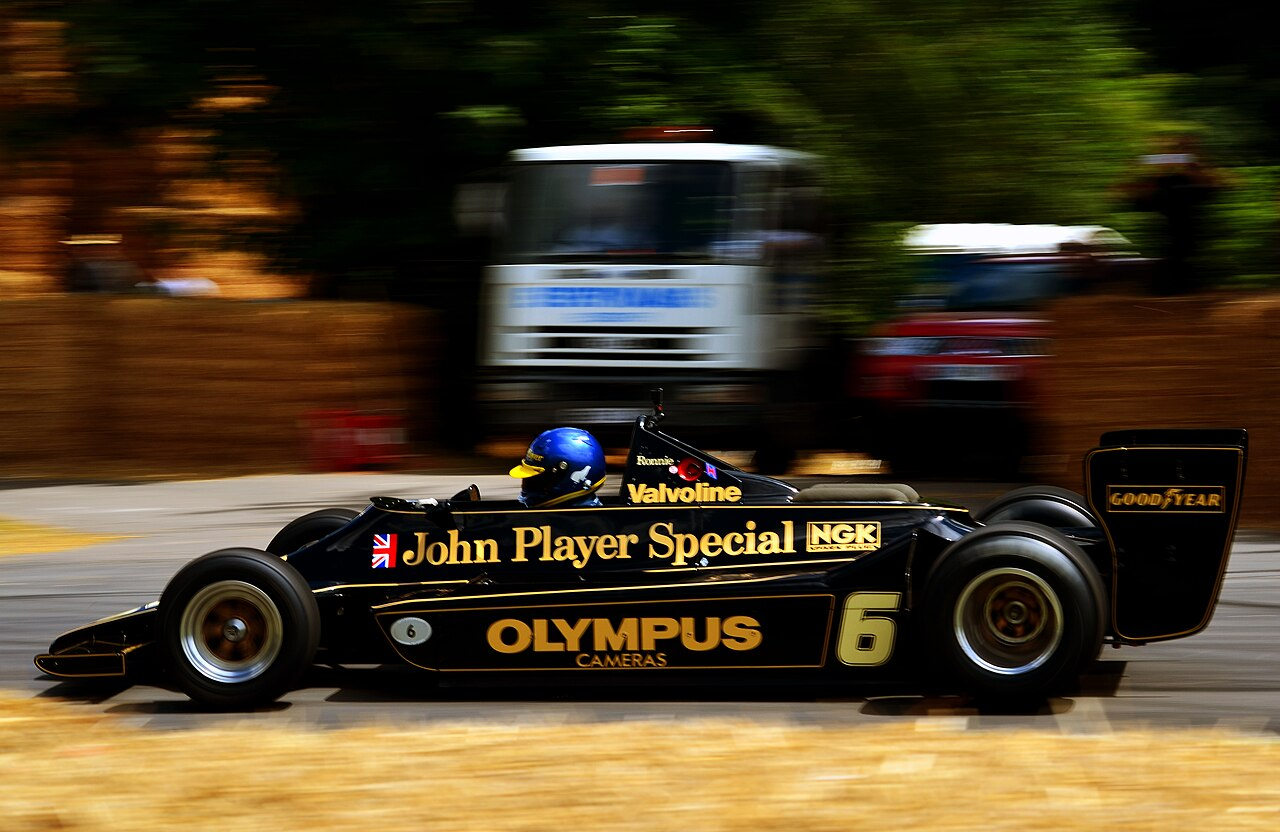
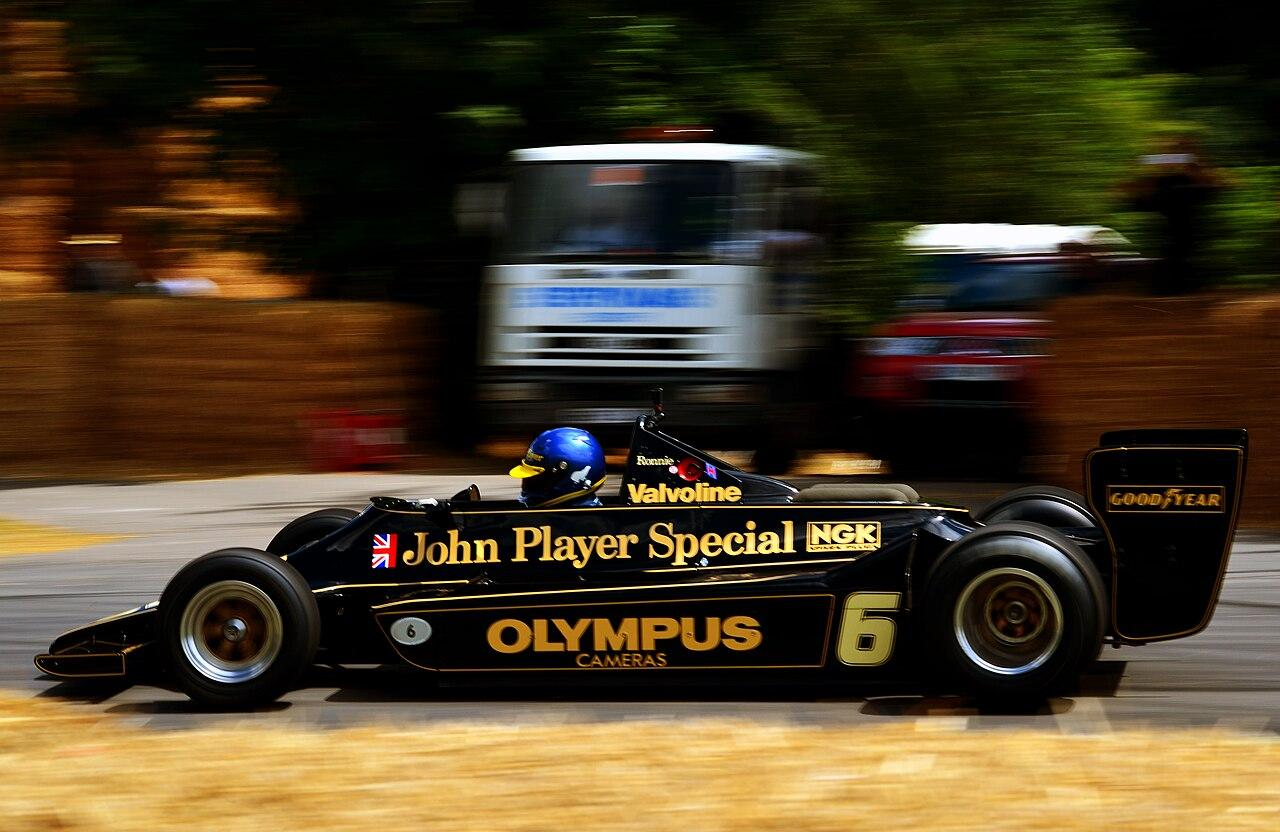
Reduce mobile layout shift and optimize photos

diff --git a/src/App.tsx b/src/App.tsx
@@ -2,9 +2,11 @@ import { Suspense, lazy, useEffect } from 'react';
 import { BrowserRouter, Routes, Route, useLocation } from 'react-router-dom';
 import { Nav } from './components/Nav/Nav';
 import { Footer } from './components/Footer/Footer';
+import { Home } from './pages/Home/Home';
 
-// Lazy-load pages for performance
-const Home = lazy(() => import('./pages/Home/Home').then(m => ({ default: m.Home })));
+// Keep the landing route in the initial bundle: a short Suspense placeholder
+// was being replaced by the full editorial home page on slow mobile networks,
+// producing a large cumulative layout shift on the most visited route.
 const Evolution = lazy(() => import('./pages/Evolution/Evolution').then(m => ({ default: m.Evolution })));
 const Compare = lazy(() => import('./pages/Compare/Compare').then(m => ({ default: m.Compare })));
 const Technology = lazy(() => import('./pages/Technology/Technology').then(m => ({ default: m.Technology })));

diff --git a/BUILD_REPORT.md b/BUILD_REPORT.md
@@ -67,3 +67,11 @@ Wikimedia image attributions and license links are listed on `/sources`. Some co
 - No automated accessibility test package or test script is configured. Keyboard interactions and reduced-motion code paths were reviewed, but a formal WCAG audit remains outstanding.
 - The performance update and README/report changes were committed as `b9722de` and pushed to `main` at `https://github.com/pritp06/NEX-F1`.
 - The performance update and README/report changes were committed as `b9722de` and `c768cd6` and pushed to `main` at `https://github.com/pritp06/NEX-F1`. The browser confirmed that the live site at `https://nex-f1.vercel.app` includes the new homepage poster and deferred-model button. The configured Vite build uses `npm run build` with output `dist`, and `vercel.json` rewrites direct route requests to the SPA entry point. No environment variables are required.
+
+## Lighthouse follow-up — 18 October 2026
+
+- A fresh PageSpeed Insights mobile lab run against `https://nex-f1.vercel.app/` measured Performance 81, FCP 1.3 s, LCP 1.4 s, TBT 0 ms, Speed Index 1.3 s, and CLS 0.4. The prior 80–82 screenshots were therefore not just a JavaScript cost issue: the unusually high layout shift was the dominant score concern. PSI also estimated 292 KiB of image delivery savings.
+- Removed the lazy-loaded homepage module from the initial route. On a slow connection, its short generic Suspense placeholder was replaced by a much taller editorial page; the home module now renders on first pass, avoiding that placeholder swap. The optional Three.js scene remains click-to-load.
+- Re-encoded the 11 locally hosted historical JPEGs at quality 76 without resizing or changing their attribution/source records. Total photo bytes fell from about 3,297 KiB to 2,651 KiB (about 20% saved); individual reductions range from about 15–24%. Historical imagery is still photographic and its existing license credit remains attached.
+- `npm run build` and `npm run lint` passed after these changes. The updated production build has an 84.77 KiB gzip entry (up from 80.34 KiB as the homepage now avoids a Suspense replacement) and all 3D runtime code remains separately split.
+- The live post-deployment PageSpeed re-run is still required to confirm the new CLS and score. A 95–100 score is not claimed until a new production lab report verifies it; Lighthouse results vary between runs and devices.
